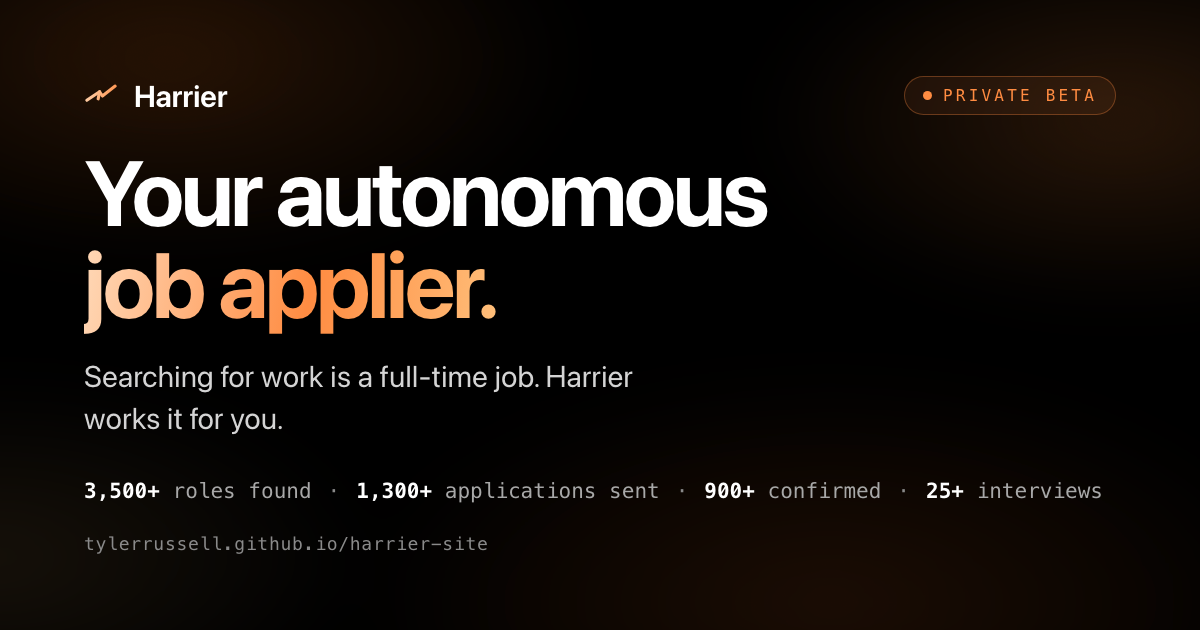
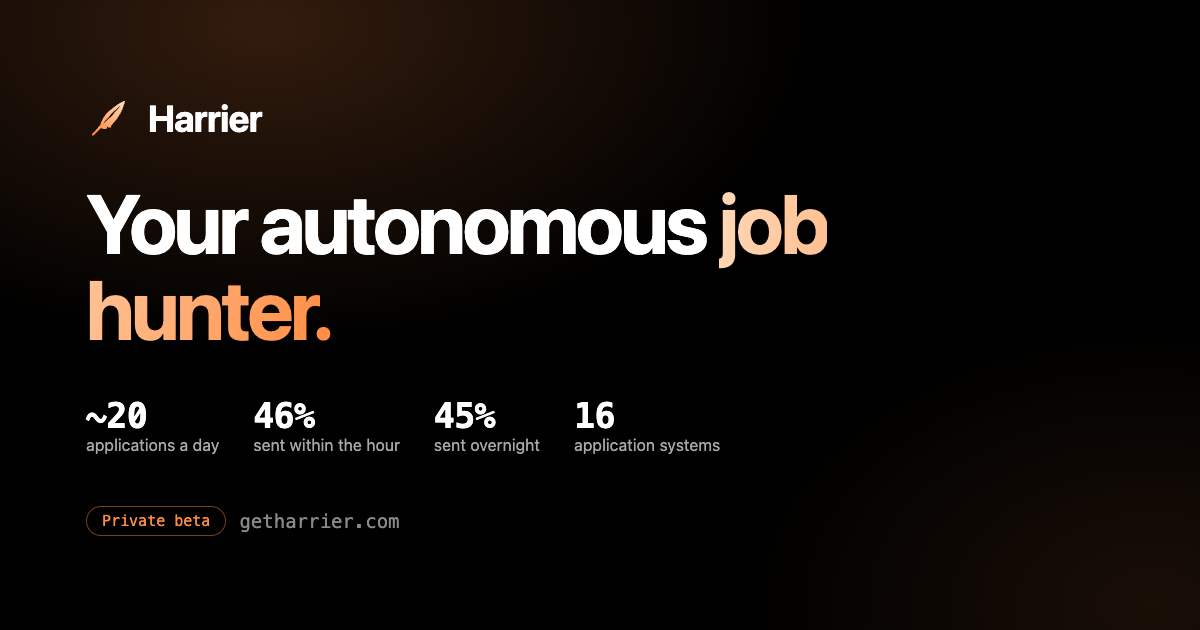
Lead with what the machine does, and state the bias in the numbers
The hero's four averages were all OUTCOME metrics from one deliberately selective
search — senior titles, remote only, a high salary floor. Those filters push the
numbers DOWN, so the page was underselling: a job seeker casting a wider net gets
more matches, not fewer. Worse, nothing said so, which made a biased sample read
as a typical result.

Two changes. The hero now leads with CAPABILITY — ~20 applications a day, 46%
sent within an hour of the posting appearing, 45% sent overnight, 16 application
systems. Those describe what the software does regardless of who configures it,
and the fineprint says exactly what each one counts. Dropped a "hours saved"
figure that was arithmetic on a 20-minutes-per-application rule of thumb, not
anything measured.

The funnel keeps the real averages and gains the caveat, stated plainly rather
than buried: this was a narrow search, those filters hold the numbers down, a
wider search finds more. Admitting the bias makes the same numbers a floor
instead of a ceiling.

Also regenerates og.png and favicon.png, which had rotted badly: the share card
still said "job applier", still showed the retired lump-sum stats ("3,500+ roles
found"), still carried the pre-feather logo, and still pointed at the old GitHub
Pages URL — so every shared link previewed a page that no longer existed. Both
are now produced by tools/generate-social-images.mjs, which PARSES the feather,
[…]

diff --git a/index.html b/index.html
@@ -52,16 +52,16 @@
     </h1>
     <p class="sub rise d3">Searching for work is a full-time job. Harrier works it for you — sweeps the boards for roles that fit, tailors a résumé for each one, and applies. Every day.</p>
     <p class="statline rise d4">
-      <span><b>~60</b> roles found a day</span><span class="sep">·</span>
       <span><b>~20</b> applications a day</span><span class="sep">·</span>
-      <span><b>~68%</b> acknowledged</span><span class="sep">·</span>
-      <span><b>~8</b> recruiter calls a month</span>
+      <span><b>46%</b> sent within the hour</span><span class="sep">·</span>
+      <span><b>45%</b> sent overnight</span><span class="sep">·</span>
+      <span><b>16</b> application systems</span>
     </p>
     <div class="hero-cta rise d5">
       <a class="btn" href="mailto:tyler.russell248@gmail.com?subject=Harrier%20invite%20request">Request an invite <span class="arrow" aria-hidden="true">→</span></a>
       <a class="btn ghost" href="#how">See how it works</a>
     </div>
-    <p class="fineprint rise d6">Averages from two months of continuous use on one machine, rounded down. "Acknowledged" means an application was confirmed received — a confirmation email, an ATS delivery signal, or an assessment invite.</p>
+    <p class="fineprint rise d6">Measured over two months of continuous use on one machine, rounded down. "Within the hour" and "overnight" are shares of all applications sent — how quickly a new posting gets answered, and how much of the work happens while you're asleep. "Application systems" are the ATS platforms Harrier can submit through.</p>
   </div>
 </header>
 
@@ -72,6 +72,7 @@
       <span class="eyebrow">The pace</span>
       <h2>Real averages from a search that <span class="accent">never clocks out.</span></h2>
       <p class="lead">The day-to-day rates Harrier actually sustains — measured over two months of running nonstop on a single machine. Read top to bottom: from the roles it surfaces each day down to the recruiter calls that come back.</p>
+      <p class="lead caveat">One caveat worth stating plainly: this was a <b>deliberately narrow</b> search — senior titles, remote only, a high salary floor. Those filters hold the numbers <i>down</i>. A wider search finds more.</p>
     </div>
     <div class="glass funnel reveal">
       <div class="stage">

diff --git a/css/sections.css b/css/sections.css
@@ -146,3 +146,16 @@ details.q .a a { color: var(--accent); text-decoration: none; border-bottom: 1px
   .stage.catch .glowline { animation: none !important; }
   details.q summary .chev { transition: none !important; }
 }
+
+/* The selectivity caveat under the funnel lead. Quieter than the lead it follows — it's an honest
+   qualifier, not a second pitch — but not hidden: it's the reason the numbers read low, and saying so
+   turns a distortion into a floor. */
+.head .lead.caveat {
+  font-size: 13.5px;
+  color: var(--fg-4);
+  margin-top: 10px;
+  padding-left: 11px;
+  border-left: 2px solid color-mix(in srgb, var(--accent) 40%, transparent);
+  max-width: 62ch;
+}
+.head .lead.caveat b { color: var(--fg-3); font-weight: 650; }
